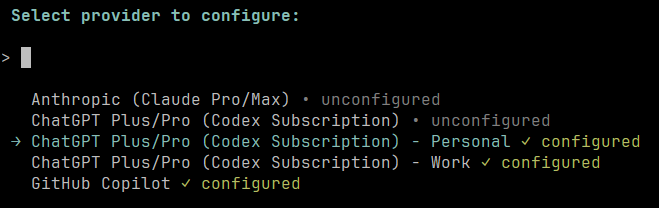
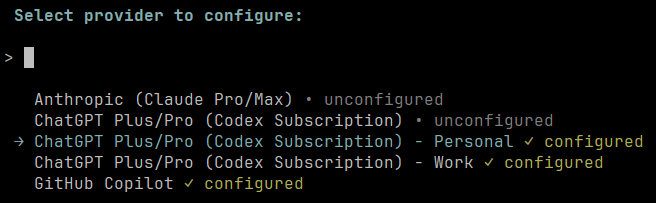
Update codex aliases screenshots

Changed region(s): [[0.0, 0.4433, 1.0, 0.9458], [0.0, 0.0296, 0.4573, 0.1182], [0.0, 0.2069, 0.061, 0.3547]]

diff --git a/packages/codex-aliases/README.md b/packages/codex-aliases/README.md
@@ -7,7 +7,9 @@ Pi extension that registers two aliases for Pi's built-in OpenAI Codex provider:
 
 This is useful when you have both a personal ChatGPT account and a work ChatGPT account. You can keep both logged in at the same time, then switch between them using Pi's provider/model selection instead of logging in and out.
 
-<img src="./images/screenshot.png" alt="Codex aliases screenshot" width="600">
+<img src="./images/screenshot.png" alt="Codex aliases screenshot">
+
+<img src="./images/screenshot-2.png" alt="Codex aliases screenshot showing configured aliases">
 
 ## Install
 
